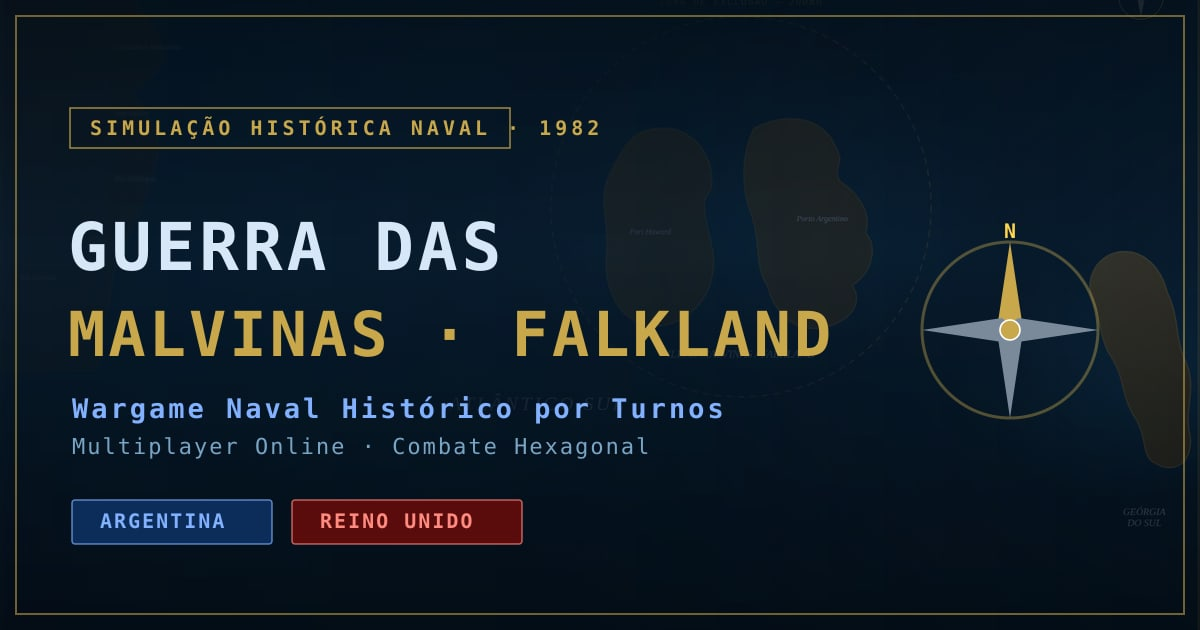
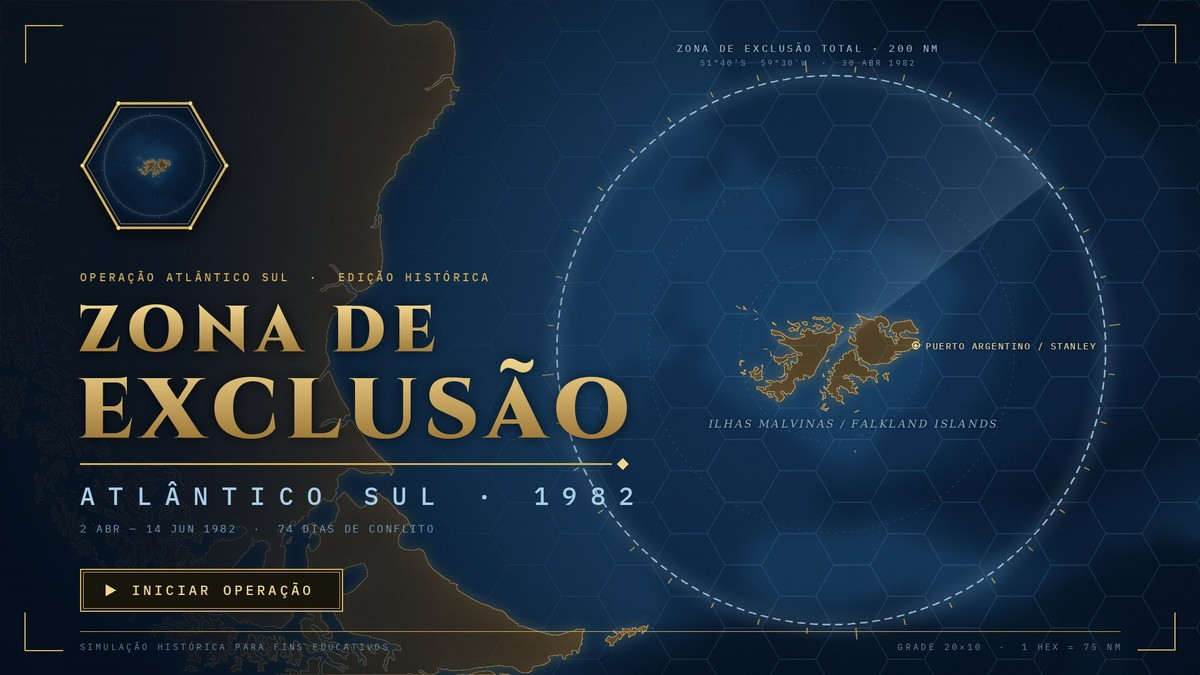
Rebrand as "Zona de Exclusão — Atlântico Sul, 1982" / "Exclusion Zone"
Adopts the new name and provided visual identity (emblem, horizontal/
vertical logos, splash art) for both PT and EN. The landing hero now uses
the full-bleed branded splash background (locale-swapped) with a real,
functional CTA button and language switch overlaid on its blank button
slot; a screen-reader-only <h1> keeps the page title accessible. The
game screen header and lobby swap their plain-text titles for the
horizontal logo, toggled via `html[lang]`. Favicons and the social
share image (og-image.jpg) are regenerated from the new artwork.

All "Guerra das Malvinas / Falkland 1982" strings across pt.json,
en.json, both HTML pages, README and package.json are renamed to the
new title; references to the real 1982 war/islands as historical
context are left untouched.

Also fixes a bug found while testing the rebrand: switching language
mid-game only updated data-i18n-tagged DOM, not text rendered
imperatively by updateUI()/render() (team badge, panels, canvas
labels) — these now refresh immediately on an i18n:changed event
instead of waiting for the next server update.

Claude-Session: https://claude.ai/code/session_017p7A6UppZTieAzjbFB3EvG

diff --git a/public/index.html b/public/index.html
@@ -3,18 +3,20 @@
 <head>
   <meta charset="UTF-8">
   <meta name="viewport" content="width=device-width, initial-scale=1.0">
-  <title data-i18n="landing.pageTitle">Guerra das Malvinas / Falkland 1982 — Wargame Naval Histórico</title>
-  <meta name="description" content="Wargame naval histórico por turnos ambientado na Guerra das Malvinas/Falkland de 1982. Comande a Argentina ou o Reino Unido em combate hexagonal, com ciclo dia/noite e névoa de guerra. Multiplayer online ou contra o bot." data-i18n-content="landing.pageDescription">
-  <link rel="icon" type="image/svg+xml" href="/favicon.svg">
+  <title data-i18n="landing.pageTitle">Zona de Exclusão — Atlântico Sul, 1982</title>
+  <meta name="description" content="Zona de Exclusão: wargame naval histórico por turnos ambientado na Guerra das Malvinas/Falkland de 1982. Comande a Argentina ou o Reino Unido em combate hexagonal, com ciclo dia/noite e névoa de guerra. Multiplayer online ou contra o bot." data-i18n-content="landing.pageDescription">
+  <link rel="icon" type="image/png" sizes="32x32" href="/img/brand/favicon-32.png">
+  <link rel="apple-touch-icon" sizes="180x180" href="/img/brand/favicon-180.png">
+  <link rel="icon" type="image/png" sizes="512x512" href="/img/brand/favicon-512.png">
   <meta property="og:type" content="website">
-  <meta property="og:title" content="Guerra das Malvinas / Falkland 1982 — Wargame Naval Histórico" data-i18n-content="landing.pageTitle">
-  <meta property="og:description" content="Wargame naval histórico por turnos — Argentina vs. Reino Unido, 1982. Combate hexagonal, ciclo dia/noite e névoa de guerra. Multiplayer online ou contra o bot." data-i18n-content="landing.ogDescription">
+  <meta property="og:title" content="Zona de Exclusão — Atlântico Sul, 1982" data-i18n-content="landing.pageTitle">
+  <meta property="og:description" content="Zona de Exclusão — Atlântico Sul, 1982. Wargame naval histórico por turnos — Argentina vs. Reino Unido. Combate hexagonal, ciclo dia/noite e névoa de guerra. Multiplayer online ou contra o bot." data-i18n-content="landing.ogDescription">
   <meta property="og:image" content="/og-image.jpg">
   <meta property="og:image:width" content="1200">
-  <meta property="og:image:height" content="630">
+  <meta property="og:image:height" content="675">
   <meta name="twitter:card" content="summary_large_image">
-  <meta name="twitter:title" content="Guerra das Malvinas / Falkland 1982 — Wargame Naval Histórico" data-i18n-content="landing.pageTitle">
-  <meta name="twitter:description" content="Wargame naval histórico por turnos — Argentina vs. Reino Unido, 1982. Multiplayer online ou contra o bot." data-i18n-content="landing.twitterDescription">
+  <meta name="twitter:title" content="Zona de Exclusão — Atlântico Sul, 1982" data-i18n-content="landing.pageTitle">
+  <meta name="twitter:description" content="Zona de Exclusão — Atlântico Sul, 1982. Wargame naval histórico por turnos — Argentina vs. Reino Unido. Multiplayer online ou contra o bot." data-i18n-content="landing.twitterDescription">
   <meta name="twitter:image" content="/og-image.jpg">
   <link rel="stylesheet" href="css/main.css">
   <link rel="stylesheet" href="css/tutorial.css">
@@ -23,29 +25,17 @@
 
 <!-- ═══ HERO ═══════════════════════════════════════════════════════════════ -->
 <section class="hero">
-  <div class="hero-overlay"></div>
-  <div class="hero-content">
-    <div class="classification" data-i18n="landing.classification">SIMULAÇÃO HISTÓRICA NAVAL · 1982</div>
-    <h1 data-i18n-html="landing.heroTitle">GUERRA DAS<br><span>MALVINAS · FALKLAND</span></h1>
-    <p class="tagline" data-i18n="landing.tagline">Wargame Naval Histórico por Turnos · Multiplayer Online</p>
+  <div class="hero-splash">
+    <img class="hero-splash-img splash-pt" src="/img/brand/splash_pt_bg.jpg" alt="" role="presentation">
+    <img class="hero-splash-img splash-en" src="/img/brand/splash_en_bg.jpg" alt="" role="presentation">
+  </div>
+  <h1 class="sr-only" data-i18n="landing.pageTitle">Zona de Exclusão — Atlântico Sul, 1982</h1>
+  <div class="hero-controls">
     <div class="lang-switch hero-lang-switch" data-i18n-switch>
       <button type="button" data-locale="pt" class="lang-btn">PT</button>
       <button type="button" data-locale="en" class="lang-btn">EN</button>
     </div>
-    <a href="#lobby" class="btn-primary scroll-down" data-i18n="landing.startOp">▼ INICIAR OPERAÇÃO</a>
-  </div>
-  <div class="compass-rose">
-    <svg viewBox="0 0 100 100" xmlns="http://www.w3.org/2000/svg">
-      <polygon points="50,5 55,45 50,55 45,45" fill="#c9a84c"/>
-      <polygon points="50,95 55,55 50,45 45,55" fill="#7a7a7a"/>
-      <polygon points="5,50 45,45 55,50 45,55" fill="#7a7a7a"/>
-      <polygon points="95,50 55,45 45,50 55,55" fill="#7a7a7a"/>
-      <circle cx="50" cy="50" r="6" fill="#c9a84c" stroke="#fff" stroke-width="1"/>
-      <text x="50" y="2"  text-anchor="middle" font-size="8" fill="#c9a84c" font-weight="bold">N</text>
-      <text x="50" y="99" text-anchor="middle" font-size="8" fill="#aaa">S</text>
-      <text x="99" y="53" text-anchor="end"    font-size="8" fill="#aaa">L</text>
-      <text x="2"  y="53" text-anchor="start"  font-size="8" fill="#aaa">O</text>
-    </svg>
+    <a href="#lobby" class="btn-primary hero-cta scroll-down" data-i18n="landing.startOp">▶ INICIAR OPERAÇÃO</a>
   </div>
 </section>
 
@@ -260,7 +250,7 @@
 </section>
 
 <footer>
-  <p><span data-i18n="landing.footer">GUERRA DAS MALVINAS / FALKLAND 1982 · Wargame Naval Histórico © 2026 ·</span> <a href="game.html" data-i18n="landing.footerLink">Entrar no Teatro de Operações</a></p>
+  <p><span data-i18n="landing.footer">ZONA DE EXCLUSÃO — ATLÂNTICO SUL, 1982 · Wargame Naval Histórico © 2026 ·</span> <a href="game.html" data-i18n="landing.footerLink">Entrar no Teatro de Operações</a></p>
 </footer>
 
 <!-- ── TUTORIAL OVERLAY ───────────────────────────────────────────────────── -->
@@ -295,7 +285,7 @@
           </div>
         </div>
       </div>
-      <div class="tut-title" data-i18n="landing.tut0Title">GUERRA DAS MALVINAS / FALKLAND — 1982</div>
+      <div class="tut-title" data-i18n="landing.tut0Title">ZONA DE EXCLUSÃO — ATLÂNTICO SUL, 1982</div>
       <div class="tut-text" data-i18n-html="landing.tut0Body">
         Wargame naval histórico operacional para 2 jogadores.<br>
         Comande frotas de navios e aeronaves no conflito real de 1982 no Atlântico Sul.<br>

diff --git a/public/css/main.css b/public/css/main.css
@@ -43,80 +43,42 @@ h2 {
 .hidden    { display: none !important; }
 
 /* ═══ HERO ══════════════════════════════════════════════════════════════════ */
+/* Full-bleed branded splash art (locale-swapped) with a real, functional
+   CTA + language switch overlaid on the image's own blank button slot —
+   see public/img/brand/. Position anchors are % of the image, so they stay
+   correct at any width since the image itself never crops (width:100%,
+   height:auto keeps the 16:9 aspect intact). */
 .hero {
   position: relative;
-  min-height: 100vh;
-  display: flex;
-  align-items: center;
-  justify-content: center;
+  background: var(--navy);
   overflow: hidden;
-  background:
-    radial-gradient(ellipse at 30% 60%, rgba(8,60,110,0.8) 0%, transparent 60%),
-    radial-gradient(ellipse at 70% 40%, rgba(5,40,80,0.6) 0%, transparent 60%),
-    linear-gradient(160deg, #071929 0%, #0a2e50 50%, #071929 100%);
+}
+.hero-splash { position: relative; width: 100%; line-height: 0; }
+.hero-splash-img { width: 100%; height: auto; display: block; }
+.splash-en { display: none !important; }
+html[lang="en"] .splash-en { display: block !important; }
+html[lang="en"] .splash-pt { display: none !important; }
+
+.sr-only {
+  position: absolute; width: 1px; height: 1px;
+  padding: 0; margin: -1px; overflow: hidden;
+  clip: rect(0,0,0,0); white-space: nowrap; border: 0;
 }
 
-/* Animated hex background */
-.hero::before {
-  content: '';
-  position: absolute; inset: 0;
-  background-image:
-    repeating-linear-gradient(60deg,  transparent, transparent 34px, rgba(30,90,150,0.07) 34px, rgba(30,90,150,0.07) 35px),
-    repeating-linear-gradient(-60deg, transparent, transparent 34px, rgba(30,90,150,0.07) 34px, rgba(30,90,150,0.07) 35px),
-    repeating-linear-gradient(0deg,   transparent, transparent 20px, rgba(20,70,130,0.05) 20px, rgba(20,70,130,0.05) 21px);
-  animation: drift 30s linear infinite;
-  pointer-events: none;
-}
-@keyframes drift { from { background-position: 0 0; } to { background-position: 60px 100px; } }
-
-.hero-overlay {
-  position: absolute; inset: 0;
-  background: radial-gradient(ellipse at center bottom, rgba(0,0,0,0.4) 0%, transparent 70%);
-  pointer-events: none;
-}
-
-.hero-content {
-  position: relative;
-  text-align: center;
-  z-index: 1;
-}
-
-.classification {
-  display: inline-block;
-  padding: 4px 16px;
-  border: 1px solid var(--gold);
-  color: var(--gold);
-  font-size: 0.7rem;
-  letter-spacing: 5px;
-  margin-bottom: 1.5rem;
-}
-
-.hero-content h1 {
-  font-size: clamp(2.5rem, 7vw, 5rem);
-  letter-spacing: 6px;
-  line-height: 1.15;
-  color: var(--text);
-  text-shadow: 0 0 40px rgba(33,150,243,0.4);
-  margin-bottom: 0.4rem;
-}
-.hero-content h1 span { color: var(--gold); display: block; font-size: 1.1em; }
-
-.tagline {
-  color: var(--text-dim);
-  letter-spacing: 3px;
-  font-size: 0.85rem;
-  margin-bottom: 2.5rem;
-}
+.hero-controls { position: absolute; inset: 0; pointer-events: none; }
 
 /* ═══ LANGUAGE SWITCH ═══════════════════════════════════════════════════════ */
 .lang-switch { display: flex; gap: 4px; justify-content: center; }
-.hero-lang-switch { margin-bottom: 1.6rem; }
+.hero-lang-switch {
+  position: absolute; left: 6.7%; top: 75%;
+  pointer-events: auto;
+}
 .lang-btn {
   background: none;
   border: 1px solid rgba(201,168,76,0.35);
   color: var(--text-dim);
   font-family: 'Courier New', monospace;
-  font-size: 0.72rem;
+  font-size: clamp(0.5rem, 1.1vw, 0.72rem);
   font-weight: 700;
   padding: 3px 10px;
   letter-spacing: 1px;
@@ -144,14 +106,19 @@ h2 {
   color: var(--navy);
   box-shadow: 0 0 30px rgba(201,168,76,0.4);
 }
-
-.compass-rose {
+.hero-cta {
   position: absolute;
-  bottom: 2rem; right: 2rem;
-  width: 80px; height: 80px;
-  opacity: 0.5;
+  left: 6.7%; top: 81.5%;
+  width: 21.9%; min-width: 130px;
+  height: 5.6%; min-height: 34px;
+  padding: 0;
+  display: flex; align-items: center; justify-content: center; gap: 6px;
+  pointer-events: auto;
+  font-size: clamp(0.5rem, 1.3vw, 0.9rem);
+  letter-spacing: 2px;
+  white-space: nowrap;
+  background: rgba(5,15,28,0.4);
 }
-.compass-rose svg { width: 100%; height: 100%; }
 
 /* ═══ CONCEPT ═══════════════════════════════════════════════════════════════ */
 .concept {
@@ -443,7 +410,7 @@ footer a:hover { text-decoration: underline; }
   from { opacity: 0; transform: translateY(16px); }
   to   { opacity: 1; transform: translateY(0); }
 }
-.hero-content { animation: fadeInUp 0.7s ease-out both; }
+.hero-controls > * { animation: fadeInUp 0.7s ease-out both; }
 .concept, .oob-section, .howto, .lobby-section {
   animation: fadeInUp 0.6s ease-out both;
 }
@@ -459,7 +426,7 @@ footer a:hover { text-decoration: underline; }
 }
 
 @media (prefers-reduced-motion: reduce) {
-  .hero-content, .concept, .oob-section, .howto, .lobby-section {
+  .hero-controls > *, .concept, .oob-section, .howto, .lobby-section {
     animation: none !important;
   }
   .feature:hover, .oob-side:hover { transform: none !important; }
@@ -470,6 +437,22 @@ footer a:hover { text-decoration: underline; }
   .container { padding: 0 1rem; }
   h2 { font-size: 1.15rem; letter-spacing: 2px; }
 
+  /* The splash art scales down too far to fit the overlaid controls inside
+     its own blank button slot — drop them into normal flow below it instead. */
+  .hero-controls {
+    position: static;
+    display: flex; flex-direction: column; align-items: center; gap: 0.85rem;
+    padding: 1.25rem 1rem 1.5rem;
+    background: var(--navy);
+  }
+  .hero-lang-switch, .hero-cta {
+    position: static;
+    width: auto; min-width: 0;
+    height: auto; min-height: 0;
+    font-size: 0.8rem;
+  }
+  .hero-cta { padding: 12px 28px; }
+
   .lobby-box { padding: 1.6rem 1.2rem; }
   .lobby-solo { flex-direction: column; }
   .lobby-solo .btn-action { padding: 12px; }
@@ -479,6 +462,4 @@ footer a:hover { text-decoration: underline; }
   .oob-table td { padding: 3px 3px; }
   /* Coluna "Cat." dispensável em telas estreitas — esconde cabeçalho e células juntos */
   .oob-table th:nth-child(4), .oob-table td:nth-child(4) { display: none; }
-
-  .compass-rose { width: 56px; height: 56px; bottom: 1rem; right: 1rem; }
 }

diff --git a/public/game.html b/public/game.html
@@ -3,9 +3,11 @@
 <head>
   <meta charset="UTF-8">
   <meta name="viewport" content="width=device-width, initial-scale=1.0">
-  <title data-i18n="game.pageTitle">Guerra das Malvinas / Falkland 1982 — Teatro de Operações</title>
-  <meta name="description" content="Teatro de operações do wargame naval histórico Guerra das Malvinas/Falkland 1982." data-i18n-content="game.pageDescription">
-  <link rel="icon" type="image/svg+xml" href="/favicon.svg">
+  <title data-i18n="game.pageTitle">Zona de Exclusão — Atlântico Sul, 1982 — Teatro de Operações</title>
+  <meta name="description" content="Teatro de operações do wargame naval histórico Zona de Exclusão — Atlântico Sul, 1982." data-i18n-content="game.pageDescription">
+  <link rel="icon" type="image/png" sizes="32x32" href="/img/brand/favicon-32.png">
+  <link rel="apple-touch-icon" sizes="180x180" href="/img/brand/favicon-180.png">
+  <link rel="icon" type="image/png" sizes="512x512" href="/img/brand/favicon-512.png">
   <link rel="stylesheet" href="css/game.css">
   <link rel="stylesheet" href="css/tutorial.css">
 </head>
@@ -16,7 +18,11 @@
 
   <!-- Header bar -->
   <header class="game-header">
-    <div class="header-title" data-i18n="game.headerTitle">MALVINAS / FALKLAND 1982</div>
+    <div class="header-title">
+      <span class="sr-only" data-i18n="game.headerTitle">Zona de Exclusão — Atlântico Sul, 1982</span>
+      <img class="header-logo logo-pt" src="/img/brand/logo_horizontal_pt.png" alt="">
+      <img class="header-logo logo-en" src="/img/brand/logo_horizontal_en.png" alt="">
+    </div>
     <div id="my-turn-banner" class="my-turn-banner" data-i18n="game.yourTurn">▶ SUA VEZ</div>
     <div class="header-meta">
       <span id="team-badge"   class="team-badge"></span>
@@ -109,7 +115,11 @@
 <!-- ── LOBBY SCREEN ─────────────────────────────────────────────────────── -->
 <div id="lobby-screen">
   <div class="lobby-box">
-    <h1 data-i18n="game.lobbyTitle">⚓ GUERRA DAS MALVINAS / FALKLAND</h1>
+    <h1 class="sr-only" data-i18n="game.lobbyTitle">Zona de Exclusão — Atlântico Sul, 1982</h1>
+    <div class="lobby-logo">
+      <img class="lobby-logo-img logo-pt" src="/img/brand/logo_horizontal_pt.png" alt="">
+      <img class="lobby-logo-img logo-en" src="/img/brand/logo_horizontal_en.png" alt="">
+    </div>
     <p data-i18n="game.lobbySubtitle">Wargame Naval Histórico · 2 jogadores</p>
     <div class="lang-switch" data-i18n-switch>
       <button type="button" data-locale="pt" class="lang-btn">PT</button>

diff --git a/public/css/game.css b/public/css/game.css
@@ -49,12 +49,22 @@ body {
   flex-wrap: wrap;
 }
 .header-title {
-  font-size: 0.8rem;
-  letter-spacing: 3px;
-  color: var(--gold);
+  display: flex; align-items: center;
   margin-right: auto;
   white-space: nowrap;
 }
+.sr-only {
+  position: absolute; width: 1px; height: 1px;
+  padding: 0; margin: -1px; overflow: hidden;
+  clip: rect(0,0,0,0); white-space: nowrap; border: 0;
+}
+.header-logo { height: 22px; width: auto; display: block; }
+/* !important: these toggle across two <img> variants sharing other display
+   rules (.header-logo, .lobby-logo-img) at equal specificity — source order
+   between the two rule sets shouldn't decide which one wins. */
+.logo-en { display: none !important; }
+html[lang="en"] .logo-en { display: block !important; }
+html[lang="en"] .logo-pt { display: none !important; }
 .my-turn-banner {
   padding: 3px 14px;
   background: var(--green);
@@ -347,8 +357,9 @@ body {
   box-shadow: 0 0 60px rgba(21,101,192,0.2);
   animation: popIn 0.3s cubic-bezier(0.16, 1, 0.3, 1);
 }
-.lobby-box h1 { font-size: 1.4rem; letter-spacing: 3px; color: var(--gold); margin-bottom: 0.3rem; }
 .lobby-box p  { color: var(--dim); font-size: 0.8rem; margin-bottom: 1.5rem; }
+.lobby-logo { margin-bottom: 0.5rem; }
+.lobby-logo-img { max-width: 280px; width: 100%; height: auto; display: block; margin: 0 auto; }
 .lobby-box .lang-switch { justify-content: center; margin-bottom: 1.2rem; }
 
 .or-sep { margin: 1rem 0; color: var(--dim); font-size: 0.8rem; }

diff --git a/public/js/client.js b/public/js/client.js
@@ -733,6 +733,18 @@ document.addEventListener('keydown', e => {
   }
 });
 
+// ─── Language switch: refresh text rendered imperatively (not via data-i18n) ──
+// applyI18nToDom() (in i18n.js) already refreshed every [data-i18n*] element;
+// this covers the rest — canvas labels, and JS-built panels that only
+// normally re-render on the next server update.
+document.addEventListener('i18n:changed', () => {
+  if (gameState) { updateUI(); render(); }
+  if (!helpModal.classList.contains('hidden')) {
+    const activeTab = document.querySelector('.help-tab.active')?.dataset.tab || 'fases';
+    showHelpTab(activeTab);
+  }
+});
+
 // ─── Lobby actions ────────────────────────────────────────────────────────────
 btnCreate.addEventListener('click', () => { SFX.init(); socket.emit('create_room'); });
 btnJoin.addEventListener('click', () => {

diff --git a/public/js/hex.js b/public/js/hex.js
@@ -1,7 +1,7 @@
 'use strict';
 
 // ═════════════════════════════════════════════════════════════════════════════
-// HEX GRID — MAPA "GUERRA DAS MALVINAS / FALKLAND 1982"
+// HEX GRID — MAPA "ZONA DE EXCLUSÃO — ATLÂNTICO SUL, 1982"
 // Grade georreferenciada (Lambert conforme, NE 1:10M) — 1 hex = 75 NM.
 // Calibrada para coincidir com mapa.png (ver mapa_source/, metade da
 // resolução original de mapa_source/mapa_malvinas_1982_georef.json:

diff --git a/README.md b/README.md
@@ -1,4 +1,6 @@
-# Guerra das Malvinas / Falkland 1982 — Wargame Naval Histórico
+![Zona de Exclusão — Atlântico Sul, 1982](public/img/brand/logo_horizontal_pt_bg.png)
+
+# Zona de Exclusão — Atlântico Sul, 1982
 
 Wargame naval histórico por turnos, multiplayer online, ambientado no
 Atlântico Sul de 1982: a Força Azul (**Argentina**) defende as Ilhas
@@ -67,6 +69,7 @@ só em português.
 | `shared/` | Ordem de batalha, configuração e motor de combate (usados por servidor e cliente) |
 | `public/` | Cliente web (landing, jogo em canvas, CSS, ícones, cards) |
 | `public/locales/` | Dicionários de idioma (`pt.json`, `en.json`) usados por `public/js/i18n.js` |
+| `public/img/brand/` | Identidade visual (emblema, logotipos, telas de abertura) nos dois idiomas |
 | `mapa_source/` | Fonte da carta náutica georreferenciada (`public/mapa.png`): gerador Python, GeoJSON com lon/lat e terreno por hexágono, imagem em resolução plena |
 | `scripts/gen_unit_cards.js` | Gera as cartas ilustradas de cada unidade (`public/cards/`) |
 | `data/game-logs/` | Logs de partidas reais (dataset para treinar o bot) |
